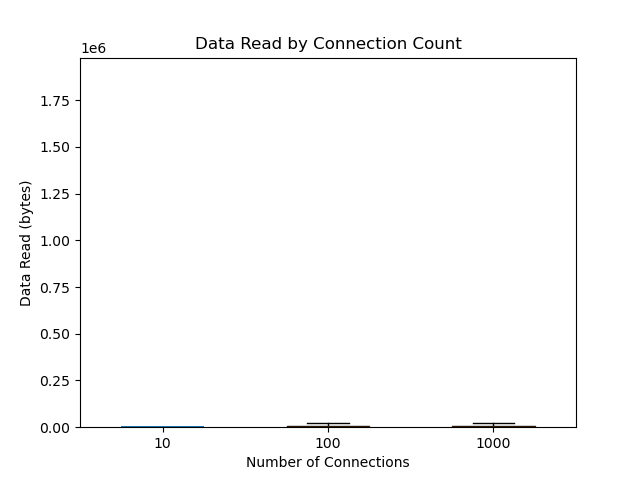
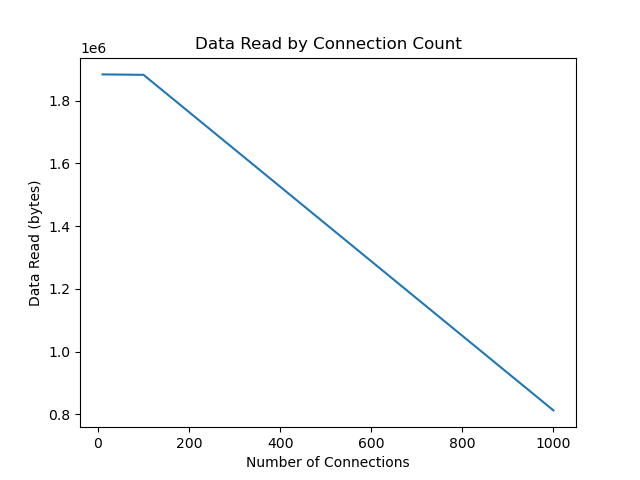
graphs

diff --git a/run_plots.py b/run_plots.py
@@ -67,7 +67,7 @@ plt.xlabel("Average Latency (ms)")
 plt.ylabel("Throughput (req/sec)")
 plt.show()
 plt.savefig('results/latency_avg_vs_throughput.png')
-
+plt.clf()
 
 avg_latency = results.groupby('patterns_size')['latency_avg'].mean()
 avg_latency.plot(kind='bar')
@@ -75,7 +75,7 @@ plt.title("Average Latency by Pattern Size")
 plt.xlabel("Pattern Size")
 plt.ylabel("Average Latency (ms)")
 plt.savefig('results/latency_by_pattern_size.png')
-
+plt.clf()
 
 requests_per_sec = results.groupby('connections')['requests_per_sec'].mean()
 requests_per_sec.plot(kind='bar')
@@ -83,13 +83,14 @@ plt.title("Requests per Second by Connections")
 plt.xlabel("Number of Connections")
 plt.ylabel("Requests per Second")
 plt.savefig('results/requests_per_sec_by_connections.png')
+plt.clf()
 
 plt.boxplot([results[results['nb_patterns'] == n]['latency_avg'] for n in results['nb_patterns'].unique()], labels=results['nb_patterns'].unique())
 plt.title("Latency Distribution by Number of Patterns")
 plt.xlabel("Number of Patterns")
 plt.ylabel("Latency (ms)")
 plt.savefig('results/latency_by_nb_patterns.png')
-
+plt.clf()
 
 
 
@@ -99,6 +100,7 @@ plt.title("Average Latency by Matrix Size")
 plt.xlabel("Matrix Size")
 plt.ylabel("Average Latency (ms)")
 plt.savefig('results/latency_by_matrix_size.png')
+plt.clf()
 
 
 avg_latency_by_pattern = results.groupby('patterns_size')['latency_avg'].mean()
@@ -107,6 +109,7 @@ plt.title("Average Latency by Pattern Size")
 plt.xlabel("Pattern Size")
 plt.ylabel("Average Latency (ms)")
 plt.savefig('results/latency_by_pattern_size.png')
+plt.clf()
 
 avg_latency_by_nb_patterns = results.groupby('nb_patterns')['latency_avg'].mean()
 avg_latency_by_nb_patterns.plot(kind='bar')
@@ -114,7 +117,7 @@ plt.title("Average Latency by Number of Patterns")
 plt.xlabel("Number of Patterns")
 plt.ylabel("Average Latency (ms)")
 plt.savefig('results/latency_by_nb_patterns.png')
-
+plt.clf()
 
 avg_latency_by_threads = results.groupby('threads')['latency_avg'].mean()
 avg_latency_by_threads.plot(kind='bar')
@@ -122,7 +125,7 @@ plt.title("Average Latency by Number of Threads")
 plt.xlabel("Number of Threads")
 plt.ylabel("Average Latency (ms)")
 plt.savefig('results/latency_by_threads.png')
-
+plt.clf()
 
 avg_latency_by_connections = results.groupby('connections')['latency_avg'].mean()
 avg_latency_by_connections.plot(kind='bar')
@@ -130,7 +133,7 @@ plt.title("Average Latency by Connections")
 plt.xlabel("Number of Connections")
 plt.ylabel("Average Latency (ms)")
 plt.savefig('results/latency_by_connections.png')
-
+plt.clf()
 
 data_read_by_connection_count = results.groupby('connections')['data_read'].mean()
 data_read_by_connection_count.plot()
@@ -138,6 +141,7 @@ plt.title("Data Read by Connection Count")
 plt.xlabel("Number of Connections")
 plt.ylabel("Data Read (bytes)")
 plt.savefig('results/data_read_by_connection_count.png')
+plt.clf()
 ### 3D scatter plot, x = matrix size, y = number of patterns, z = pattern size, color = average latency
 
 
@@ -148,7 +152,7 @@ plt.title("Data Read by Matrix Size")
 plt.xlabel("Matrix Size")
 plt.ylabel("Data Read (bytes)")
 plt.savefig('results/data_read_by_matrix_size.png')
-
+plt.clf()
 
 # show a graph showing the average latency by matrix size for different number of connections
 # i want the number of connections on the x axis and the average latency on the y axis
@@ -208,5 +212,8 @@ plt.title("Average Latency by Matrix Size, Number of Patterns, and Pattern Size"
 
 cbar = plt.colorbar(sc)
 cbar.set_label('Average Latency (ms)')
+
+plt.show()
+plt.clf()
 
 plt.savefig('results/latency_by_matrix_size_patterns_size.png')
